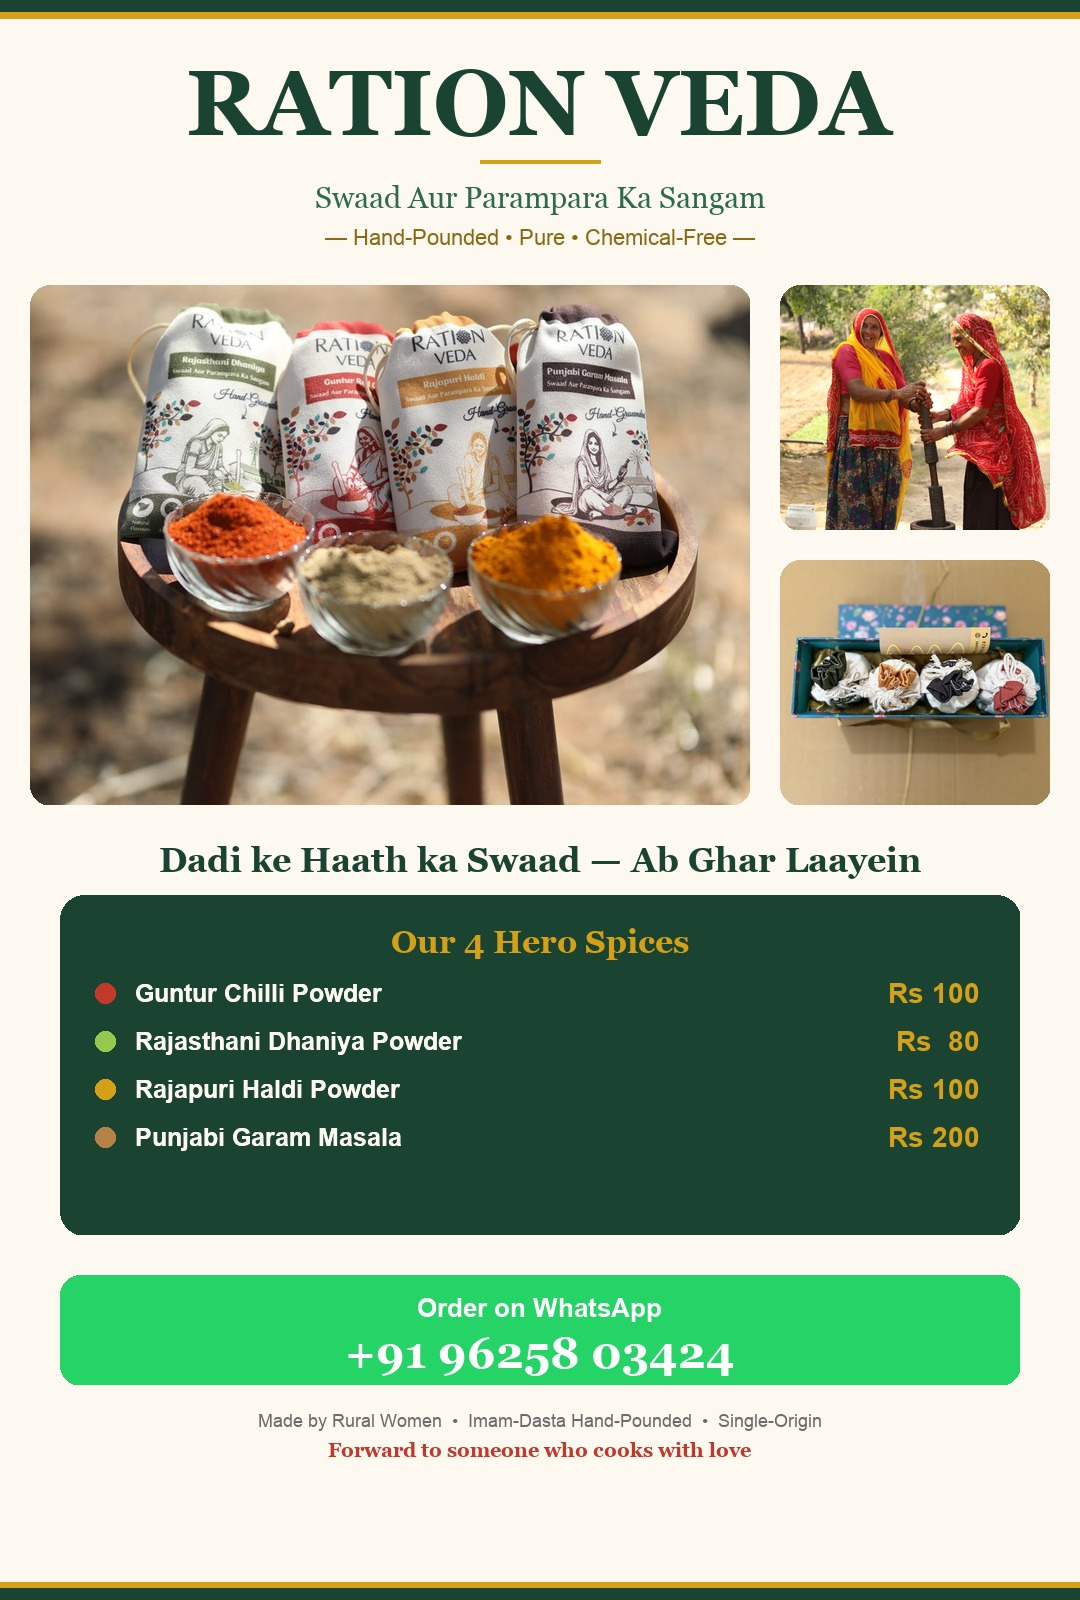
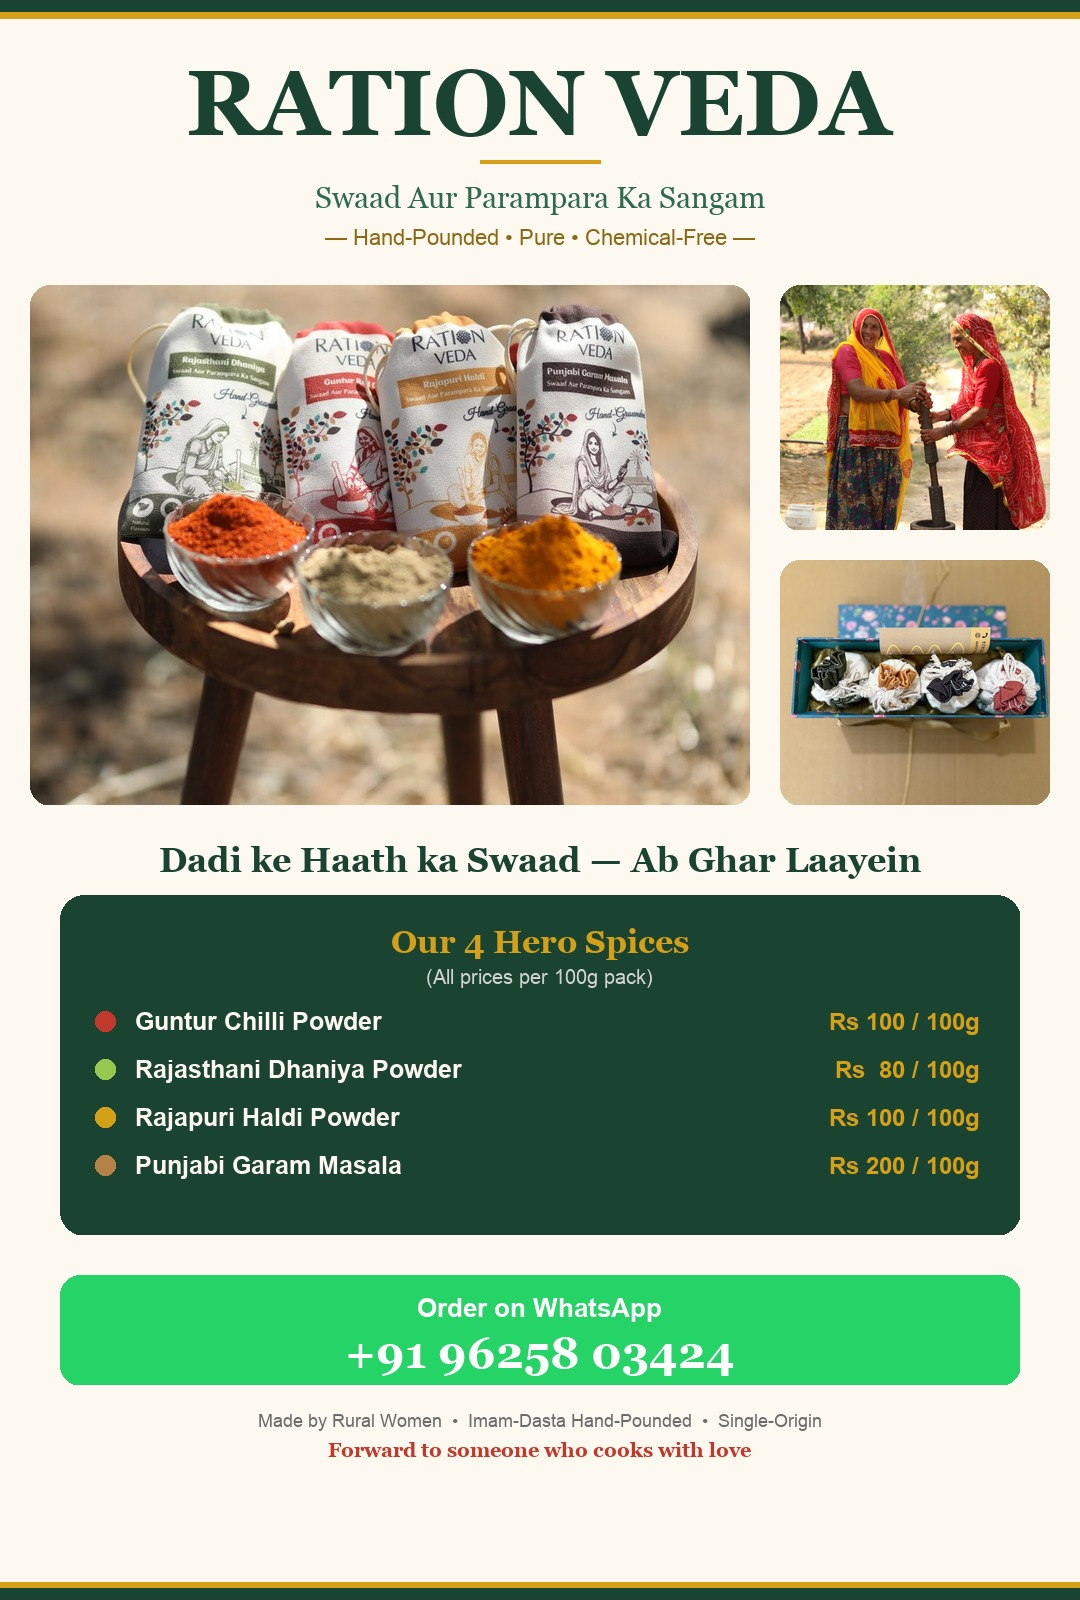
Show prices per 100g on poster and in all messages
- Poster: add "(All prices per 100g pack)" sub-header + "/100g" suffix on each price line
- Update all 4 text message variants to show "/ 100g" explicitly
- Price list card reformatted for clarity

Changed region(s): [[0.0917, 0.5938, 0.4889, 0.75], [0.7639, 0.5938, 0.9167, 0.75], [0.5194, 0.5938, 0.6111, 0.625]]

diff --git a/whatsapp-marketing/build-collage.py b/whatsapp-marketing/build-collage.py
@@ -136,25 +136,31 @@ ch_y += 50
 
 # Product rows
 products = [
-    ('Guntur Chilli Powder', '100g', 'Rs 100', RED_SPICE),
-    ('Rajasthani Dhaniya Powder', '100g', 'Rs  80', (150, 200, 80)),
-    ('Rajapuri Haldi Powder', '100g', 'Rs 100', GOLD),
-    ('Punjabi Garam Masala', '100g', 'Rs 200', (180, 130, 70)),
+    ('Guntur Chilli Powder', 'Rs 100', RED_SPICE),
+    ('Rajasthani Dhaniya Powder', 'Rs  80', (150, 200, 80)),
+    ('Rajapuri Haldi Powder', 'Rs 100', GOLD),
+    ('Punjabi Garam Masala', 'Rs 200', (180, 130, 70)),
 ]
 
+# Sub-header: price clarification
+sub_txt = '(All prices per 100g pack)'
+sub_bbox = draw.textbbox((0, 0), sub_txt, font=font_sans(20))
+stw = sub_bbox[2] - sub_bbox[0]
+draw.text(((W - stw) // 2, ch_y - 8), sub_txt, font=font_sans(20), fill=(210, 210, 210))
+ch_y += 28
+
 row_h = 48
-for i, (name, size, price, accent) in enumerate(products):
+for i, (name, price, accent) in enumerate(products):
     ry = ch_y + i * row_h
     # Accent dot
     draw.ellipse([(CARD_MARGIN + 35, ry + 10), (CARD_MARGIN + 55, ry + 30)], fill=accent)
     # Name
     draw.text((CARD_MARGIN + 75, ry + 6), name, font=font_sans(25, bold=True), fill=CREAM)
-    # Size
-    draw.text((CARD_MARGIN + 75, ry + 6), name, font=font_sans(25, bold=True), fill=CREAM)
-    # Price (right-aligned)
-    price_bbox = draw.textbbox((0, 0), price, font=font_sans(28, bold=True))
+    # Price (right-aligned) — e.g. "Rs 100 / 100g"
+    full_price = f'{price} / 100g'
+    price_bbox = draw.textbbox((0, 0), full_price, font=font_sans(24, bold=True))
     pw = price_bbox[2] - price_bbox[0]
-    draw.text((W - CARD_MARGIN - 40 - pw, ry + 4), price, font=font_sans(28, bold=True), fill=GOLD)
+    draw.text((W - CARD_MARGIN - 40 - pw, ry + 7), full_price, font=font_sans(24, bold=True), fill=GOLD)
 
 y = CARD_Y + CARD_H + 40
 